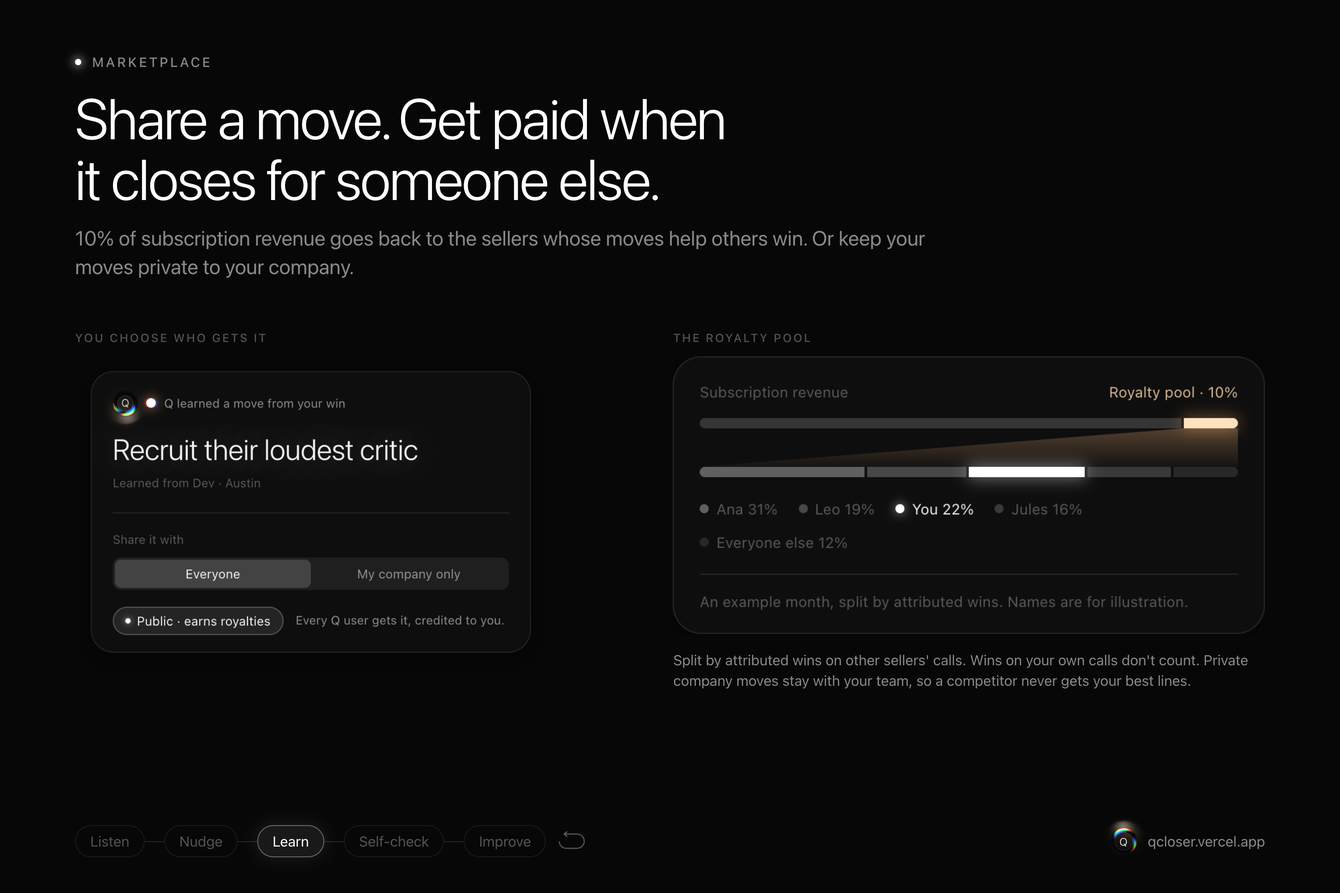
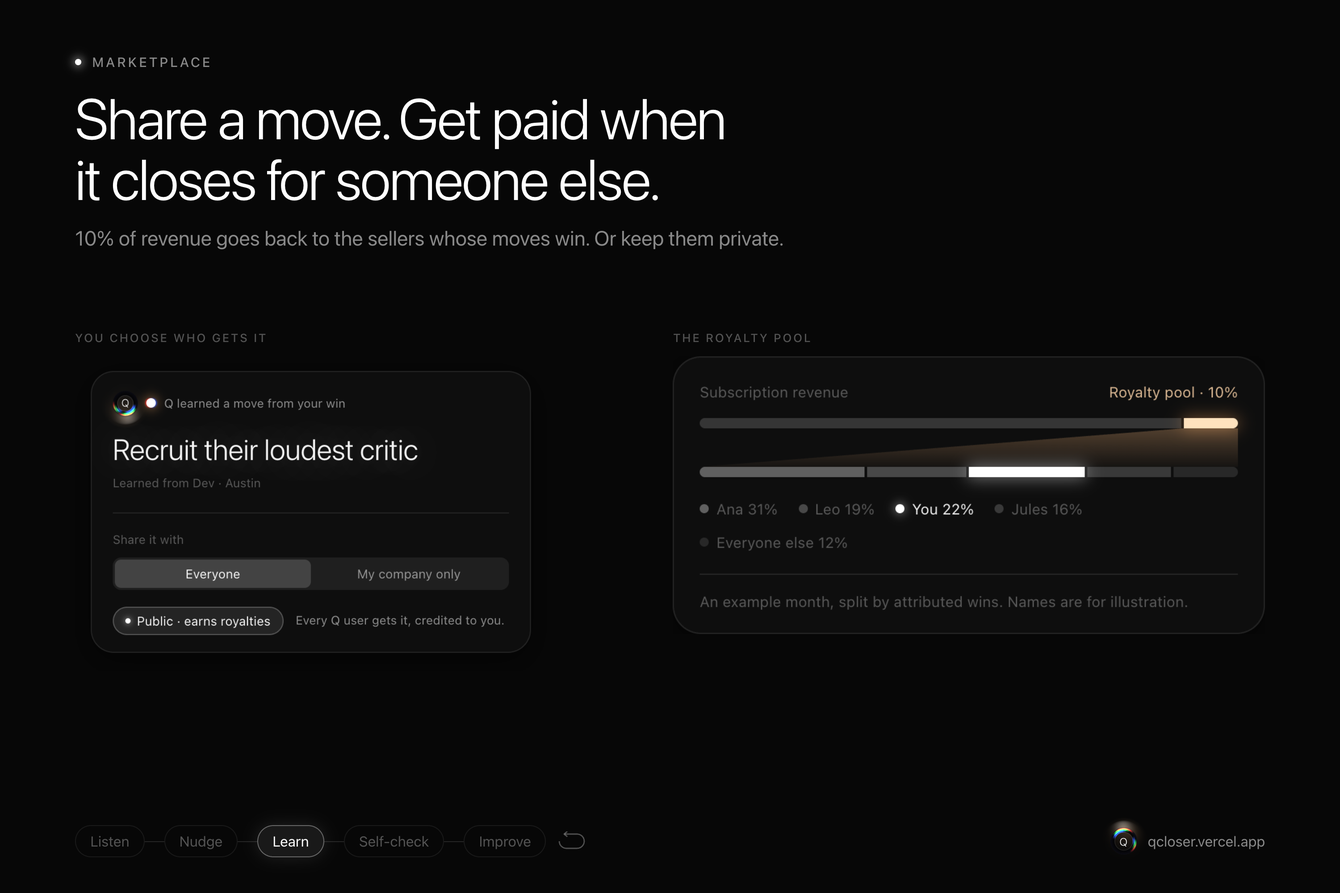
Gallery rev 2: restaurant call, plain-English stats, less text; live demo names John (buyer) and Jordan (seller)

Changed region(s): [[0.062, 0.248, 0.682, 0.31], [0.496, 0.713, 0.868, 0.775], [0.899, 0.713, 0.93, 0.744]]

diff --git a/docs/DEMO_SCRIPT.md b/docs/DEMO_SCRIPT.md
@@ -1,21 +1,21 @@
 # Q: the live demo call
 
-The exact call to film for the live demo: what the buyer (your helper, on the phone in Meet, playing a brokerage owner named Jordan) says, roughly what John says, and the nudges Q gave when we tested each line. The helper doesn't play Belfort (the film clip in the video's hook covers him), so no costume and no impression; "Sell me this pen" stays as the nod to the film.
+The exact call to film for the live demo: what the buyer (your helper, on the phone in Meet, playing a brokerage owner named John) says, roughly what you say as the seller, and the nudges Q gave when we tested each line. The names mirror the film's call in the hook: the buyer is John, and your Q card goes by Jordan (city Long Island), so the move you teach Q is credited "Jordan · Long Island", the same as the hook's toast. Nobody plays Belfort (the film clip covers him), so no costume and no impression; "Sell me this pen" stays as the nod to the film.
 
 > **Schedule (confirmed):** Devpost closes submissions at **11:00 AM PT**. Film around **8:30 to 9:45 AM** and **submit by 10:45 AM**.
 >
 > **Status:** the test log below ran Oct 17, about 1:55 AM PT, on Claude Sonnet 5.5. Live nudges now run on **Claude Opus 5.5 in fast mode** (Sonnet 5.5 as fallback) with listen-ahead, so on the live site nudges land about a second after the buyer stops, and the wording may differ a little. John's lines were also changed so he acts on each nudge. Run [Re-run the checks](#re-run-the-checks) once before filming if there's time.
 >
-> **Reset before filming.** The learning test below added the move "Flip roles, let them sell it" (credited to John · Los Angeles) to the shared database, which local and Vercel both use. If you don't reset, Q will skip learning it on camera because it's already in the playbook.
+> **Reset before filming.** The learning test below added the move "Flip roles, let them sell it" (credited to John · Los Angeles, the popup's old name and city) to the shared database, which local and Vercel both use. If you don't reset, Q will skip learning it on camera because it's already in the playbook.
 
 ## Before you film
 
 1. **API credits:** open /test (or any Meet call) and get one nudge. If nothing comes back, the Anthropic credits ran out again.
 2. **Reset:** /admin, enter the passcode, **Reset to seed**. This clears test calls, learned moves and lessons.
 3. **Rehearse once and end it as Lost.** Run the call below with your helper, acting on the nudges as you go, fumble the close on purpose, click End call, then **Lost**. It's your rehearsal, and it gives the "What Q learned" feed a real "From a loss" lesson and the review a real call to judge. A lost call never adds moves, so the flip stays new for the real take. Whatever the review says about the rehearsal's nudges is what shows in "What Q got wrong"; don't try to force a result.
-4. **Q popup on the laptop:** name `John`, city `Los Angeles`, call length `10 min`, paste the company profile and brief below.
-5. **Second Q card:** a second Chrome profile with Q loaded (Load unpacked from the extension folder), any name other than John. Open meet.google.com in a window you can show on screen. It has to be visible when the move lands, because Q pauses checking for new moves in hidden tabs.
-6. **The phone:** joins the Meet as the buyer from another room. If you can, make its display name `Jordan` so the card says "Hearing Jordan…". (Or use the helper's own first name, here and in the brief, so the live buyer isn't mixed up with Jordan from the film; the nudges don't depend on the name.) The phone doesn't need captions on.
+4. **Q popup on the laptop:** name `Jordan`, city `Long Island`, call length `10 min`, paste the company profile and brief below. Your learned move then shows "Learned from Jordan · Long Island", and the second card's toast reads "New move learned from Jordan · Long Island", matching the hook.
+5. **Second Q card:** a second Chrome profile with Q loaded (Load unpacked from the extension folder), any name other than Jordan. Open meet.google.com in a window you can show on screen. It has to be visible when the move lands, because Q pauses checking for new moves in hidden tabs.
+6. **The phone:** joins the Meet as the buyer from another room, with the display name `John`, so the card says "Hearing John…" (the same name as the buyer Jordan calls in the film). The phone doesn't need captions on.
 7. **Captions on the laptop:** press C, English.
 8. **Join early.** Join the Meet on the laptop about 4.5 minutes before the first scripted line. The call clock starts when you join, so the stall lands in the Close window. Stay quiet (or muted) until you roll: everything said becomes part of the call Q reads.
 9. **Recorder:** captures computer audio (see VIDEO.md). Earbuds on the laptop. Do Not Disturb on.
@@ -26,13 +26,13 @@ The exact call to film for the live demo: what the buyer (your helper, on the ph
 **Your company**
 
 ```text
-John's Pen Co. sells one product: The Signer, a solid brass refillable ballpoint made for signing things that matter. Price: $40. Teams of 10 or more: $30 each. This week only: free engraving (initials or a name). Lifetime free refills. 30-day money-back guarantee, no questions asked. Ships in 2 business days; next-day delivery in Los Angeles. Ideal customer: people who sign contracts, leases, offers and checks. Never trash other brands. Never pressure.
+Signer Pen Co. sells one product: The Signer, a solid brass refillable ballpoint made for signing things that matter. Price: $40. Teams of 10 or more: $30 each. This week only: free engraving (initials or a name). Lifetime free refills. 30-day money-back guarantee, no questions asked. Ships in 2 business days; next-day delivery in Los Angeles. Ideal customer: people who sign contracts, leases, offers and checks. Never trash other brands. Never pressure.
 ```
 
 **Brief for your next call**
 
 ```text
-Buyer: Jordan, runs a brokerage and signs deals all day. Skeptical, impatient, hates being pitched. Goal: sell one engraved Signer on this call.
+Buyer: John, runs a brokerage and signs deals all day. Skeptical, impatient, hates being pitched. Goal: sell one engraved Signer on this call.
 ```
 
 ## The call, beat by beat
@@ -41,13 +41,13 @@ Call length 10 minutes. Clock times assume you joined about 4.5 minutes early.
 
 **How to play it:**
 - **Act on every nudge Q gives, in your own words.** That's how Q is meant to be used, and it's the honest way to a good review: the after-call review only counts a nudge as helped if you used it and the buyer moved forward. The one exception is beat 4, where you go off the playbook on purpose.
-- **Give the card a beat.** The nudge lands about a second after Jordan stops. Glance at it, then answer.
-- John's lines below are a guide. If the card shows a different nudge from the one in the table, act on the one the card shows.
-- **Play the whole call, even though the video shows part of it.** The edit keeps Jordan's "Sell me this pen", beat 2 and John's answer, the lease line, beat 4 with the flip, and beat 5 (see VIDEO.md, 0:47 to 1:10). John's opener, the price beat and the "J. B." exchange are cut from the video, but they still feed the call report, and the lease line sets up the flip.
+- **Give the card a beat.** The nudge lands about a second after John stops. Glance at it, then answer.
+- Your lines below are a guide. If the card shows a different nudge from the one in the table, act on the one the card shows.
+- **Play the whole call, even though the video shows part of it.** The edit keeps John's "Sell me this pen", beat 2 and your answer, the lease line, beat 4 with the flip, and beat 5 (see VIDEO.md, 0:47 to 1:10). Your opener, the price beat and the "J. B." exchange are cut from the video, but they still feed the call report, and the lease line sets up the flip.
 
-| # | Clock | Jordan says | John says (roughly) | Nudge in testing (3 runs) |
+| # | Clock | John (buyer) says | You say (roughly) | Nudge in testing (3 runs) |
 |---|---|---|---|---|
-| | | | "Hey Jordan, good to see you." | |
+| | | | "Hey John, good to see you." | |
 | 1 | ~4:30 | "Sell me this pen." | "Sure. First, what do you sign in a normal week?" (acts on the nudge if one shows; still a good opener if none does) | 1 of 2 runs: `Ask what contracts they sign` (from Ana · Los Angeles). The other: no nudge. Don't count on one here. |
 | 2 | ~4:45 | "I run a brokerage. I don't need a pen. I've got a drawer full of them." | "Fair. So which pen closes your deals? What's the next big one you're signing?" | 3 of 3, same idea: `Ask what pen closes their deals` / `Ask which pen closes deals` / `Ask which pen closes his deals`, all from Ana · Los Angeles. Objection · No need. |
 | | | "A ten-year lease on our new office. I sign it Friday." | "Then this is your Friday pen. Solid brass, refills for life, and we engrave your initials free this week." (If a nudge shows here, act on it instead.) | Not tested. Q may stay quiet or nudge toward Friday. |
@@ -62,15 +62,15 @@ Then click **End call** on the card, then **Won**.
 
 ## Optional: show the clock adapt
 
-Jordan is the rushed type, so one extra line lets the card's clock visibly follow him. **Untested with the full call:** try it in the rehearsal first. If the nudges get worse, drop it, and the video uses the landing page's clock demo instead.
+John is the rushed type, so one extra line lets the card's clock visibly follow him. **Untested with the full call:** try it in the rehearsal first. If the nudges get worse, drop it, and the video uses the landing page's clock demo instead.
 
-- At beat 1, Jordan says: **"I've only got three minutes. Sell me this pen."**
+- At beat 1, John says: **"I've only got three minutes. Sell me this pen."**
 - About two seconds after he stops, the card should show something like `Buyer's short on time · wrap up by 8 min`, and the clock paces toward the new target from then on. With an 8-minute target, the stall still lands in the Close window (the clock reads `Close window · 5 of 8 min`), and the bar turns amber about 6.5 minutes in.
 - Everything else stays as written. Don't use "five minutes": at about 4:30 into a 10-minute target, five more minutes doesn't move the clock.
 
 ## The verdicts are real
 
-- After the call, Q's review judges every nudge from what happened right after it (did you use it, did Jordan move toward yes or pull back). Never stage, fake or edit a verdict, the result toast or the call report.
+- After the call, Q's review judges every nudge from what happened right after it (did you use it, did John move toward yes or pull back). Never stage, fake or edit a verdict, the result toast or the call report.
 - If a take ends with most nudges ignored (a missed line, a fumble), **reshoot the call** rather than editing around the report. Reset at /admin first.
 
 ## The winning move John improvises
@@ -81,39 +81,39 @@ At beat 4, the stall, John ignores the nudge and flips the famous test back on t
 
 Why this one: it's a real tactic (the buyer argues the case, so the reasons are his own), it isn't in the starting playbook, it hands the film's "Sell me this pen" back to the buyer, and it turns the stall straight into "Can you get it to me before Friday?"
 
-**Verified with one learn call** (the full transcript, with John's earlier wording at beats 1 and 2; outcome won, as John · Los Angeles). Claude learned exactly one move:
+**Verified with one learn call**, run before the names changed (the full transcript, with John's earlier wording at beats 1 and 2 and the buyer named Jordan; outcome won, as John · Los Angeles). Claude learned exactly one move:
 
 - **Move:** `Flip roles, let them sell it` (situation: Stall)
 - **Lesson saved:** "Asking the buyer to argue the case made them voice their own reasons for buying, so they talked themselves out of the stall and into asking about delivery."
 - **Call review:** turning point "After 'Let me think about it,' seller flipped the pitch and Jordan argued the signature should 'feel like the deal.'"
 - The learn call returned in about 3 seconds, and the move showed up in `/api/updates` (what every other Q card checks every 3 seconds) on both localhost and the Vercel site.
 
-So on camera expect John's card to toast `Q learned a new move from you: Flip roles, let them sell it` and the second card to toast `New move learned from John · Los Angeles`. The wording can vary a little between runs.
+So on camera expect John's card to toast `Q learned a new move from you: Flip roles, let them sell it` and the second card to toast `New move learned from Jordan · Long Island`. The wording can vary a little between runs.
 
 ## After the call (keep recording)
 
 1. End call → Meet leaves → card asks "How did it go?" → **Won**.
 2. Wait for John's toast: `Q learned a new move from you: …` (a few seconds). About 3 seconds later a second toast says how Q's nudges did on this call. Film it as it is.
-3. Bring the second Chrome window on screen. Within about 3 seconds: `New move learned from John · Los Angeles`.
+3. Bring the second Chrome window on screen. Within about 3 seconds: `New move learned from Jordan · Long Island`.
 4. Back on John's card, click **See the call report**. Scroll slowly: where the call turned, the lesson, and each nudge at the line where it appeared, with its verdict (Helped, Neutral or Hurt) and reason.
-5. Open /playbook: the new move under Stall with the **New** chip and John's real line; the "What Q learned" feed with this call's lesson (From a win) and the rehearsal's lesson (From a loss); the "What Q got wrong" panel; scroll past a **Retired** move.
+5. Open /playbook: the new move under Stall with the **New** chip, `Jordan · Long Island` and John's real line; the "What Q learned" feed with this call's lesson (From a win) and the rehearsal's lesson (From a loss); the "What Q got wrong" panel; scroll past a **Retired** move.
 
 ## If something breaks
 
 | Problem | Fix |
 |---|---|
 | Card says "Press C to turn on captions" | Press C on the laptop. |
-| Card doesn't seem to hear Jordan | Shift+D shows what Q hears. Check Jordan isn't muted and captions are English. |
-| Captions won't read at all | Shift+B opens a box to type Jordan's lines. Label that take on screen. |
+| Card doesn't seem to hear John | Shift+D shows what Q hears. Check John isn't muted and captions are English. |
+| Captions won't read at all | Shift+B opens a box to type John's lines. Label that take on screen. |
 | A weak nudge | Keep going. Never edit a nudge in the video. Reshoot the beat if it matters. |
 | Learning toast never comes | Check the API credits, then /playbook. If the move already exists, you forgot the reset. |
 | No result toast or call report link | The review may still be running or may have failed. Open /playbook: "What Q got wrong" shows how many nudges were checked. Don't fake the shot; reshoot if it matters. |
 | Most nudges ignored on the take | Reshoot the call (reset at /admin first). Don't edit around the report. |
-| Second card shows nothing | Its window must be visible, and its Q name must differ from John's. |
+| Second card shows nothing | Its window must be visible, and its Q name must be something other than Jordan. |
 
 ## Test log
 
-All runs: Claude Sonnet 5.5 via `/api/cue` on localhost with the profile and brief above, `target_s` 600, and the nudges from earlier beats passed as `recent_nudges`, the way the card does. This was before live nudges moved to Claude Opus 5.5 in fast mode and before John's lines at beats 1 and 2 changed; times are server time only.
+All runs: Claude Sonnet 5.5 via `/api/cue` on localhost with the profile and brief above, `target_s` 600, and the nudges from earlier beats passed as `recent_nudges`, the way the card does. This was before live nudges moved to Claude Opus 5.5 in fast mode, before John's lines at beats 1 and 2 changed, and before the names changed (the brief then said "Buyer: Jordan" and the opener "Hey Jordan"); times are server time only.
 
 | Beat | Clock sent | Run 1 | Run 2 | Run 3 |
 |---|---|---|---|---|
@@ -137,14 +137,14 @@ Paste into a terminal. Each cue call costs about $0.0017 on our standard model, 
 API=http://localhost:3000   # or https://qcloser.vercel.app
 D=$(mktemp -d)
 cat > "$D/profile.txt" <<'TXT'
-John's Pen Co. sells one product: The Signer, a solid brass refillable ballpoint made for signing things that matter. Price: $40. Teams of 10 or more: $30 each. This week only: free engraving (initials or a name). Lifetime free refills. 30-day money-back guarantee, no questions asked. Ships in 2 business days; next-day delivery in Los Angeles. Ideal customer: people who sign contracts, leases, offers and checks. Never trash other brands. Never pressure.
+Signer Pen Co. sells one product: The Signer, a solid brass refillable ballpoint made for signing things that matter. Price: $40. Teams of 10 or more: $30 each. This week only: free engraving (initials or a name). Lifetime free refills. 30-day money-back guarantee, no questions asked. Ships in 2 business days; next-day delivery in Los Angeles. Ideal customer: people who sign contracts, leases, offers and checks. Never trash other brands. Never pressure.
 TXT
 cat > "$D/brief.txt" <<'TXT'
-Buyer: Jordan, runs a brokerage and signs deals all day. Skeptical, impatient, hates being pitched. Goal: sell one engraved Signer on this call.
+Buyer: John, runs a brokerage and signs deals all day. Skeptical, impatient, hates being pitched. Goal: sell one engraved Signer on this call.
 TXT
 cat > "$D/call.json" <<'JSON'
 [
- {"speaker":"You","text":"Hey Jordan, good to see you."},
+ {"speaker":"You","text":"Hey John, good to see you."},
  {"speaker":"Buyer","text":"Sell me this pen."},
  {"speaker":"You","text":"Sure. First, what do you sign in a normal week?"},
  {"speaker":"Buyer","text":"I run a brokerage. I don't need a pen. I've got a drawer full of them."},
@@ -180,7 +180,7 @@ echo "5 Ready";             for i in 1 2 3; do cue 12 360 '["Ask what contracts 
 Learning check (one call, run after the block above so `$D` and `$API` are set). **It writes to the shared database: reset at /admin before filming.**
 
 ```bash
-jq -n --slurpfile t "$D/call.json" '{outcome:"won", user_name:"John", user_city:"Los Angeles", shown_cue_ids:[], transcript:$t[0]}' |
+jq -n --slurpfile t "$D/call.json" '{outcome:"won", user_name:"Jordan", user_city:"Long Island", shown_cue_ids:[], transcript:$t[0]}' |
   curl -s -X POST "$API/api/learn" -H 'Content-Type: application/json' -d @- |
   jq '{learned, lesson, turning_point}'
 ```

diff --git a/docs/VIDEO.md b/docs/VIDEO.md
@@ -31,8 +31,8 @@ Planned length 1:58, leaving 2 seconds of slack. About 170 words of narration pl
 
 ## Cast and gear
 
-- **John Wang:** himself. Seller on the live call, narrator, and (face-swapped) the coworker in the film who asks "How'd you do that?"
-- **The buyer:** one helper, on the phone in Meet from another room. Plays a brokerage owner named Jordan, as in [DEMO_SCRIPT.md](DEMO_SCRIPT.md). No costume and no Belfort impression: the film covers Belfort.
+- **John Wang:** himself. Seller on the live call, narrator, and (face-swapped) the coworker in the film who asks "How'd you do that?" On the live call his Q popup name is Jordan, city Long Island, so the move he teaches Q is credited `Jordan · Long Island`, the same as the hook's toast.
+- **The buyer:** one helper, on the phone in Meet from another room, with the Meet display name `John`. Plays a brokerage owner named John, the same name as the buyer Jordan calls in the film, as in [DEMO_SCRIPT.md](DEMO_SCRIPT.md). No costume and no impression: the film covers Belfort.
 - **The film:** the Investors Center scene from *The Wolf of Wall Street* (2013). The scene runs about 2 minutes; the hook keeps under 30 seconds of it.
 - **Gear:** the laptop (Chrome with Q, Google Meet, a screen recorder that captures computer audio), the phone (joins the Meet as the buyer), a Higgsfield account, a quiet room for the narration. A pen for the buyer to hold up on camera is a nice touch.
 - No helper? See [Solo version](#solo-version).
@@ -95,16 +95,18 @@ The plain-English line can run a second into the problem's first shot. Bond nod:
 
 Full-screen recording of the laptop: Meet with the buyer's tile (the helper's phone camera) and the Q card floating on top. In the edit, push in on the card each time a nudge lands. The exact call, setup and test log are in [DEMO_SCRIPT.md](DEMO_SCRIPT.md). **John acts on every nudge, in his own words, except at the stall, where he goes off the playbook on purpose.** The nudges below are what Q gave in testing (they vary a little run to run); use whatever the card actually shows, and never edit a nudge. Unlike the hook's overlay, everything here is the live product.
 
+The names mirror the film's call: the buyer joins Meet as `John`, so the card says `Hearing John…`, and John Wang's Q popup name is `Jordan`, city `Long Island`, so the move he teaches is credited `Jordan · Long Island`, the same toast as the hook.
+
 The whole call happens on camera (it feeds the call report). The edit keeps the opener line, the no-need beat, the stall and the close; John's opener, the price beat and the "J. B." exchange are cut.
 
 | Time | Sound | The Q card | On-screen text |
 |---|---|---|---|
-| 0:47 | **BUYER:** "Sell me this pen." | `Hearing Jordan…`, the ring brightens | Chapter label: `LIVE DEMO · real Q on a real Google Meet call`. Then: `No bot in the call. Q runs in John's browser tab.` |
+| 0:47 | **BUYER:** "Sell me this pen." | `Hearing John…`, the ring brightens | Chapter label: `LIVE DEMO · real Q on a real Google Meet call`. Then: `No bot in the call. Q runs in the seller's browser tab.` |
 | 0:49 | Jump cut. **BUYER:** "I run a brokerage. I don't need a pen. I've got a drawer full of them." | `Thinking…` starts while he's still talking, then e.g. `Ask which pen closes deals` · `Learned from Ana · Los Angeles` · `Objection · No need` and the buyer tag (e.g. `Skeptical buyer`) | Small stopwatch from the end of his line to the nudge (real time from the footage; about a second) |
-| 0:53 | **JOHN** (acting on it): "Fair. So which pen closes your deals? What's the next big one you're signing?" | | `Nudges, never scripts. John says it his way.` |
+| 0:53 | **JOHN** (acting on it): "Fair. So which pen closes your deals? What's the next big one you're signing?" | | `Nudges, never scripts. Jordan says it his way.` |
 | 0:56 | **BUYER:** "A ten-year lease on our new office. I sign it Friday." | | |
 | 0:58 | Jump cut. **BUYER:** "Look, it's a nice pen. Let me think about it." | Clock line reads `Close window · 5 of 10 min` (or the adapted target, see below); e.g. `Offer to ship engraved before Friday` | `Q watches the clock: time to close.` |
-| 1:01 | **JOHN** (his own idea): "Let me flip it. You sell it to me. Why would you sign a ten-year lease with a two-dollar pen?" | | `John goes off the playbook.` |
+| 1:01 | **JOHN** (his own idea): "Let me flip it. You sell it to me. Why would you sign a ten-year lease with a two-dollar pen?" | | `Jordan goes off the playbook.` |
 | 1:05 | **BUYER** (beat): "...Because it's the signature people remember. Fine. Can you get it to me before Friday?" | e.g. `Confirm Friday delivery, ask initials` · `Closing · Ready to buy` | |
 | 1:08 | **JOHN** (acting on it): "Thursday, engraved. What initials?" | | |
 
@@ -116,9 +118,9 @@ The whole call happens on camera (it feeds the call report). The edit keeps the 
 |---|---|---|---|
 | 1:10 | John clicks `End call` on the card. Meet leaves. The card asks `How did it go?` (Skip, Lost, Won). He clicks **Won**. | **JOHN (VO):** "When I win, Q finds the move I improvised and credits it to me." | Chapter label: `CONTINUAL LEARNING` |
 | 1:12 | John's card toast: `Q learned a new move from you: Flip roles, let them sell it` (or whatever it learns on the day) | | |
-| 1:14 | Cut to a second Chrome window, another seller's Q card. Toast: `New move learned from John · Los Angeles`. | **JOHN (VO):** "Every other Q card has it in seconds." | `Another seller's Q card` and a stopwatch: real seconds between the two toasts |
+| 1:14 | Cut to a second Chrome window, another seller's Q card. Toast: `New move learned from Jordan · Long Island`, the same line as the hook's toast. | **JOHN (VO):** "Every other Q card has it in seconds." | `Another seller's Q card` and a stopwatch: real seconds between the two toasts |
 | 1:17 | Back on John's card: its result toast (it follows the learned-move toast by about 3 seconds and says how Q's nudges did, exactly as the card shows it), then `See the call report`. Click it: the call report, with a verdict chip (Helped, Neutral or Hurt) and a one-line reason beside each nudge, at the line where it appeared. | **JOHN (VO):** "Then Q grades its own nudges by what the buyer did next. The ones that keep hurting drop, then retire." | Chapter label: `FAILURE DETECTION · every nudge judged: helped, neutral or hurt` |
-| 1:24 | /playbook: the new move under Stall with the `New` chip, `John · Los Angeles` and John's real line. Then the side panels: `What Q learned` (this call's `From a win` lesson, the rehearsal's `From a loss` lesson) and `What Q got wrong`. | **JOHN (VO):** "Lose, and Q keeps the lesson." | `500 moves · 60 situations · every call leaves a lesson` |
+| 1:24 | /playbook: the new move under Stall with the `New` chip, `Jordan · Long Island` and John's real line. Then the side panels: `What Q learned` (this call's `From a win` lesson, the rehearsal's `From a loss` lesson) and `What Q got wrong`. | **JOHN (VO):** "Lose, and Q keeps the lesson." | `500 moves · 60 situations · every call leaves a lesson` |
 
 No number goes in the voiceover or the on-screen text for the verdicts. The shot shows whatever the card and the report truly say. The stall nudge will read Neutral, because John deliberately didn't use it; that's expected.
 
@@ -137,7 +139,7 @@ Numbers and wording follow [SCALE.md](SCALE.md). Plain dark title cards in the T
 | Time | Picture | Sound | On-screen text |
 |---|---|---|---|
 | 1:44 | Simple diagram built in the editor: `Meet captions (both sides)` → `Claude reads the call + company profile + brief + call clock, starting while the buyer is still talking` → `best move from the playbook` → `a short nudge, credited` → `won call teaches a new move` → `every nudge graded after the call`, with a loop arrow back to the playbook. | **JOHN (VO):** "Claude reads the call, my company profile and the clock, then fits a move from the playbook to this buyer." (runs over the next shot) | `THE AI · Claude Opus 5.5 · listens ahead · prompt caching · about a second per nudge` |
-| 1:48 | Macro of the card from the demo footage: the ring brightening as the buyer talks, `Hearing Jordan…`, `Thinking…`, the faint line of what it just heard, the buyer tag, the clock line. | (voiceover finishes) | `DESIGN · Tango, my own design system: monochrome glass, one glowing ring` |
+| 1:48 | Macro of the card from the demo footage: the ring brightening as the buyer talks, `Hearing John…`, `Thinking…`, the faint line of what it just heard, the buyer tag, the clock line. | (voiceover finishes) | `DESIGN · Tango, my own design system: monochrome glass, one glowing ring` |
 
 ### 1:52-1:58 · End card
 
@@ -163,13 +165,13 @@ What Devpost asks for: "A 2 min demo + pitch video", scored on Functionality, Co
 
 ## Shot list, in filming order (about 55 minutes, 8:30 to 9:45 AM)
 
-Do the setup in [DEMO_SCRIPT.md](DEMO_SCRIPT.md#before-you-film) first (API credits, database reset, popup, second Chrome profile, the rehearsal that ends Lost). That isn't counted below. Shots 1 and 2 don't need the helper, so do them before 8:30 if you can.
+Do the setup in [DEMO_SCRIPT.md](DEMO_SCRIPT.md#before-you-film) first (API credits, database reset, popup as Jordan · Long Island, second Chrome profile, the rehearsal that ends Lost). That isn't counted below. Shots 1 and 2 don't need the helper, so do them before 8:30 if you can.
 
 | # | Shot | Device | Time |
 |---|---|---|---|
 | 1 | Film clip: get the scene, mark the pieces in the hook tables, and export the coworker's reaction shot (and any kept shot he's in) for Higgsfield. | Laptop | 10 min |
 | 2 | Higgsfield: start the face swap on the coworker with a clear, front-lit photo of John. It renders while you film. | Laptop | 5 min |
-| 3 | Helper takes the phone to another room and joins the Meet. John joins on the laptop about 4.5 minutes before the first line. Recorder test (see below) in that wait. | Both | 5 min |
+| 3 | Helper takes the phone to another room and joins the Meet with the display name `John`. John Wang joins on the laptop about 4.5 minutes before the first line. Recorder test (see below) in that wait. | Both | 5 min |
 | 4 | The live call, start to finish, per DEMO_SCRIPT.md. Act on each nudge in your own words. Keep recording through End call and Won. | Laptop screen recording | 4 min |
 | 5 | Bring up the second Chrome window, catch the toast. Back on John's card, open the call report and scroll it slowly. Then /playbook: the new move, "What Q learned", "What Q got wrong", a retired move. | Laptop screen recording | 4 min |
 | 6 | Q card overlay for the hook: the three beats and the toast (see [Building the Q card overlay](#building-the-q-card-overlay)). | Laptop screen recording | 10 min |
@@ -215,7 +217,7 @@ If the hook alone runs past 30 seconds, first trim each listening shot to its ca
 
 ## Solo version
 
-- **A remote friend is the buyer:** they join the Meet from their own phone or laptop. Nothing else changes.
+- **A remote friend is the buyer:** they join the Meet from their own phone or laptop, with the display name `John`. Nothing else changes.
 - **Truly alone:** type the buyer lines into the card with Shift+B and say so on screen (`Buyer lines typed for this take`). It's a weaker demo, so use it only if nobody can join. The hook doesn't need anyone.
 
 ## Production notes

diff --git a/docs/devpost/gallery/CAPTIONS.md b/docs/devpost/gallery/CAPTIONS.md
@@ -1,16 +1,16 @@
 # Devpost gallery: order and captions
 
-Upload in this order. Image 1 comes from John's filmed call. Images 3, 8 and 9 come from a real test call run through the card on Oct 17.
+Upload in this order. Image 1 comes from John's filmed call. Images 3, 5 to 9 and 14 come from real test calls run through the live card on Oct 17 (a restaurant owner, Maria, buying Shiftly scheduling software).
 
 | # | File | Caption |
 |---|---|---|
 | 1 | after filming: the Q card on the live Meet call, with the new-move toast and a verdict chip | Every closer needs a Q. It nudges, learns from every win, and grades its own advice. |
 | 2 | 02-loop.png | Continual learning and continual failure detection: every call teaches Q a move or a lesson, and Q grades every nudge it showed, with no human in the loop. |
-| 3 | 03-one-call.png | One call later: 3 moves learned and credited, 6 nudges graded, a lesson saved, and the new move on another seller's card 9 seconds after the win. |
-| 4 | 04-problem.png | AI that feeds you lines is a forklift at the gym. New sellers need to get stronger, not just read faster. |
-| 5 | 05-nudges.png | A real nudge from the live card, next to the script a line-feeding AI would hand you. |
+| 3 | 03-one-call.png | One call later: a new move credited to the seller, 7 nudges graded, a lesson saved, and the move on every Q card 8 seconds after the win. |
+| 4 | 04-problem.png | AI that feeds you lines is a forklift at the gym: students fed AI answers scored 17% lower, while students given hints didn't drop. |
+| 5 | 05-nudges.png | A script takes 25 seconds to read. A Q nudge takes a glance. |
 | 6 | 06-buyer-clock.png | Q tags the buyer, names the moment (one of 60) and paces the call, stretching it when the buyer's engaged. |
-| 7 | 07-speed.png | Listen-ahead: Q thinks while the buyer talks, so the nudge lands about a second after they stop. |
+| 7 | 07-speed.png | Listen-ahead: Q thinks while the buyer talks. On this line the nudge landed 0.6 seconds after she stopped. |
 | 8 | 08-every-card.png | Continual learning: a win becomes a move on every Q card within seconds, credited to the seller. |
 | 9 | 09-graded.png | Continual failure detection: every nudge graded by what the buyer did next, with a reason. |
 | 10 | dropped unless a real call produces a Hurt verdict (the test call had none) | Self-correcting: moves that keep misfiring rank down, then retire. |

diff --git a/docs/DEVPOST.md b/docs/DEVPOST.md
@@ -144,7 +144,7 @@ The model stays fixed; the playbook is what learns, and it learns from outcomes.
 - **New ideas get a fair shot.** Epsilon-greedy exploration: 15% of nudges try a newly learned move, never in sensitive moments.
 - **It adapts inside a call, too.** The call clock follows the buyer, extending when they're engaged and pulling in when they're short on time or going quiet, and Q re-reads the buyer type on every line.
 - **It evolves with the user.** Your wins become your moves, credited by name. With "My company only", the moves Q learns from you stay with your team, a private playbook that grows from your own wins.
-- **In the video (1:01):** John improvises a move Q has never seen, wins, Q learns "Flip roles, let them sell it", and a second Q card shows "New move learned from John · Los Angeles".
+- **In the video (1:01):** John improvises a move Q has never seen, wins, Q learns "Flip roles, let them sell it", and a second Q card shows "New move learned from Jordan · Long Island".
 
 ### Continual Failure Detection
 
